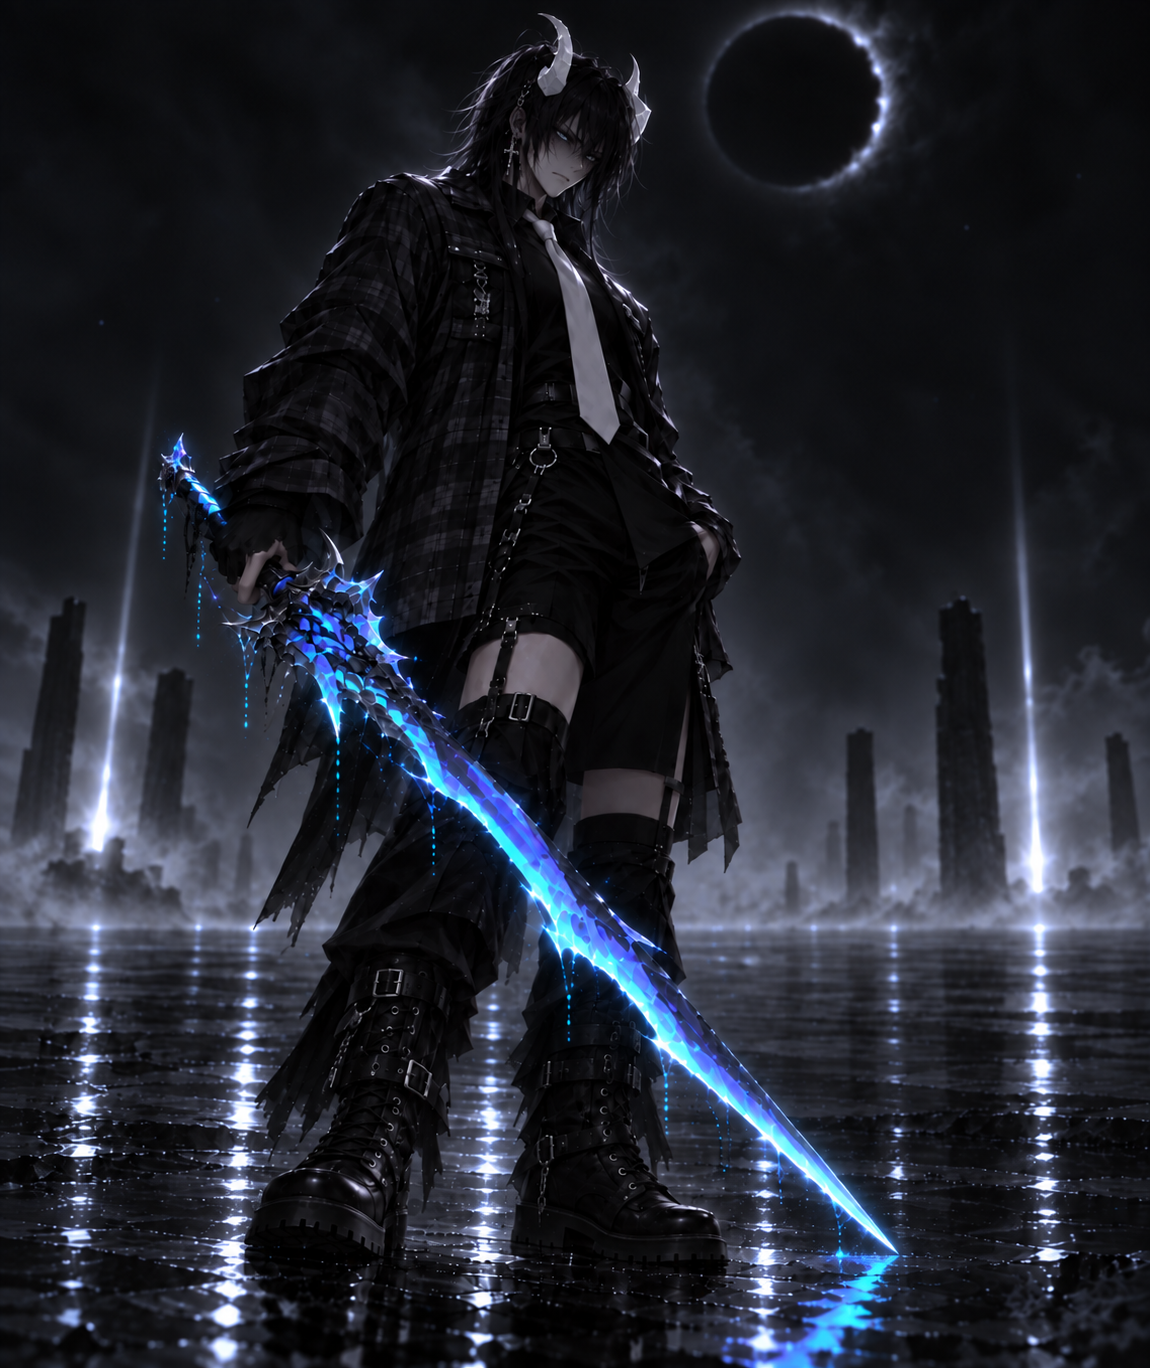
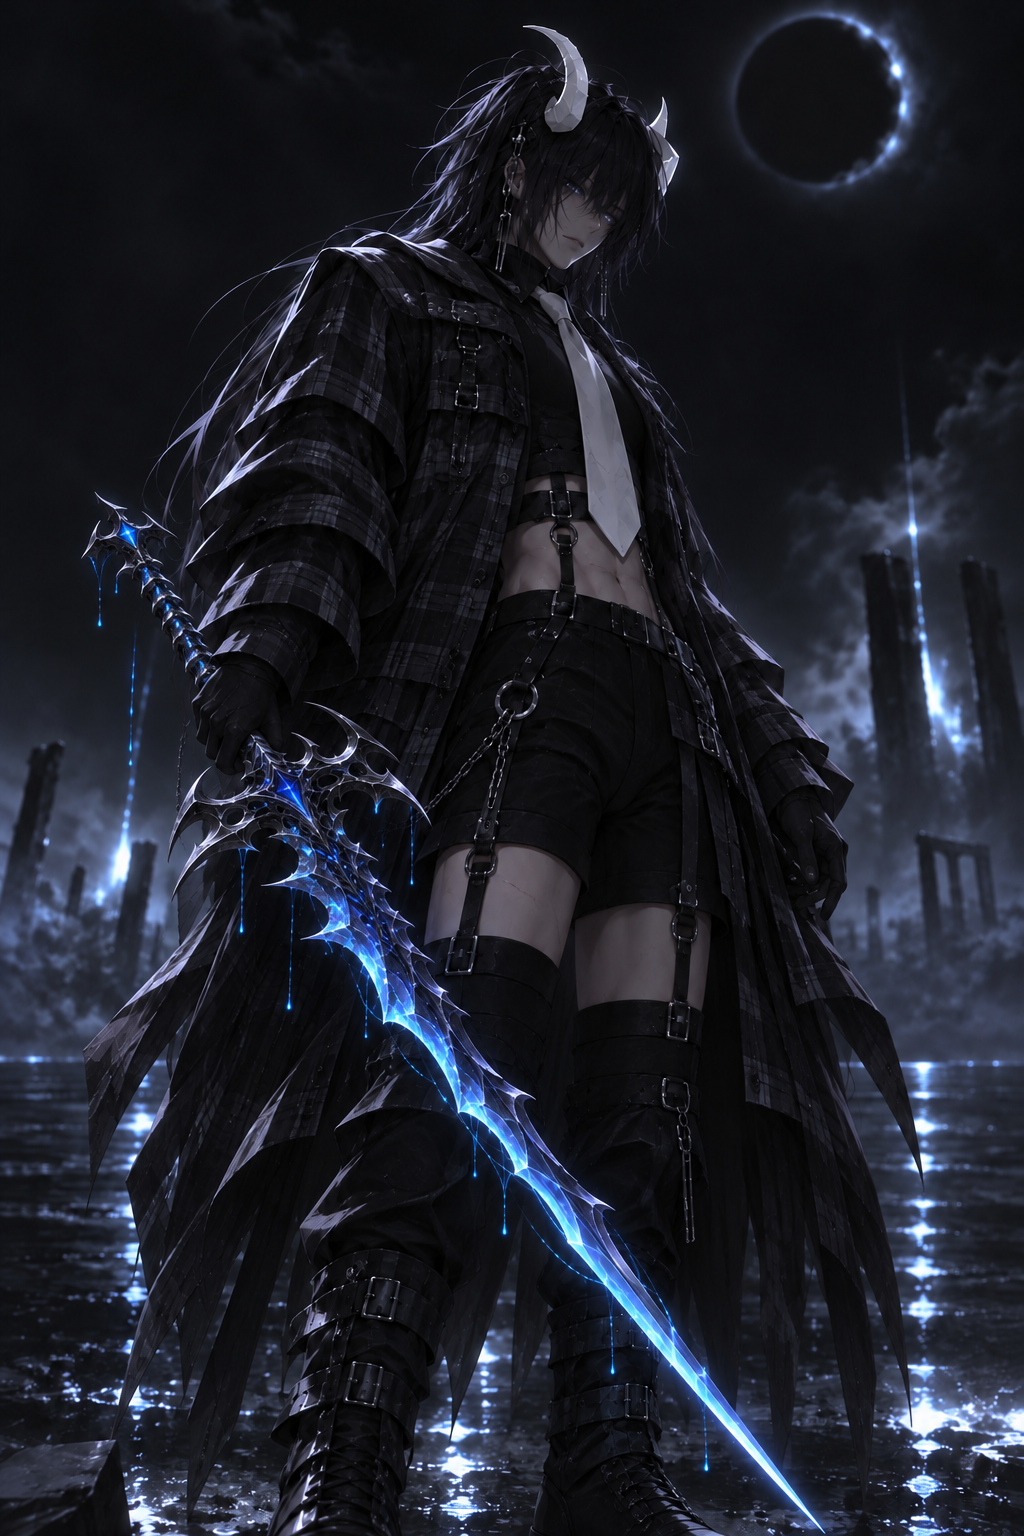
Replace the portrait for Poison male form

diff --git a/npcs/poison.html b/npcs/poison.html
@@ -50,7 +50,7 @@
           <figcaption><span>Primary Form</span><strong>Azure Scythe</strong></figcaption>
         </figure>
         <figure class="poison-form-card" data-form="male" hidden>
-          <img src="/aevum-archive/assets/images/npcs/poison/poison-male.png" alt="Poison in her male form carrying the Azure Sabre" width="1150" height="1368">
+          <img src="/aevum-archive/assets/images/npcs/poison/poison-male.png?v=20261110-male2" alt="Poison in her male form carrying the Azure Sabre" width="1024" height="1536">
           <figcaption><span>Alternative Form</span><strong>Azure Sabre</strong></figcaption>
         </figure>
       </div>

diff --git a/CHANGELOG.md b/CHANGELOG.md
@@ -2,6 +2,7 @@
 
 ## 2026-11-10
 
+- Replaced the male Poison portrait with the supplied artwork and updated its dimensions.
 - Matched the Ancient trophies to their rarity tier with engraved violet backgrounds, gold edges and rotating seal details.
 - Set the sealed achievement total to 16,822 in the page census and register.
 - Added the achievement message to Good Work! alongside its unlock condition.
